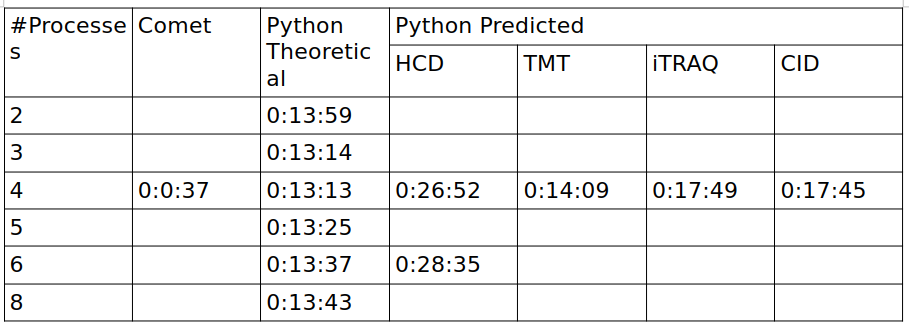
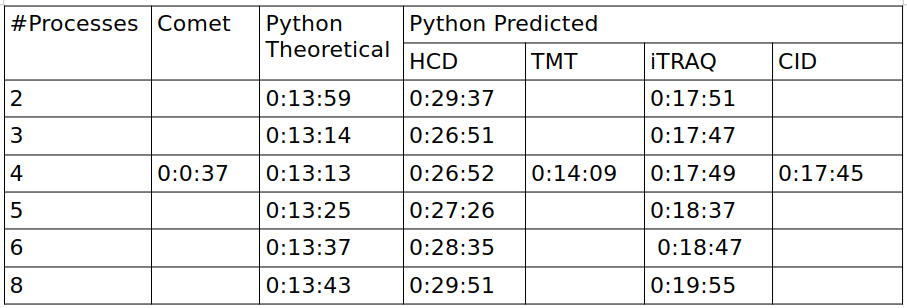
push

Changed region(s): [[0.0, 0.0, 1.0, 0.9935], [0.0, 0.1461, 0.0309, 0.1753]]

diff --git a/main.tex b/main.tex
@@ -123,7 +123,11 @@ After the binning stage, the binned experimental sample spectrum is further proc
 For the Xcorr, the similarity at zero offset is first determined, after that the binned arrays are shifted by $\pm$75 dalton and the correlation is determined at each offset. The background similarity is defined by computing the mean of all correlation values without the one at zero offset. The xcorr is then similarity at 0 offset minus background similarity \cite{xcorr-function}.
 
 \subsection{Peptide intensity prediction}
-Peptide prediction algorithms are able to predict \(MS^2\) peaks from given peptide sequences with the help of various machine learning models trained on large amounts of \(MS^2\) data. MS2PIP\cite{ms2pip} (short for \(MS^2\) peak instensity prediction) is a command line peptide intensity prediction tool which also exposes a Python API. MS2PIP has multiple built in prediction models which differ in instruments, fragmentation method, modifications and labeling techniques, the supported models are HCD, HCDch2, CID, CIDch2, iTRAQ, iTRAQphospho, TMT and TTOF5600. The tool is able to predict the m/z values given a peptide (with static and variable modifications) and its precursor charge, and also its intensities. This will be in the following referred to as the "predicted spectrum" of a peptide.
+Peptide prediction algorithms are able to predict \(MS^2\) peaks from given peptide sequences with the help of various machine learning models trained on large amounts of \(MS^2\) PSM (peptide spectrum match) data. A PSM is a score which is close to zero when a peptide has been falsely identified and is likely to be a false match and occured by chance. A high PSM score, meaning a score close to 1, implies that a match is unlikely to have occurred by chance and that it is likely that a match is correct. 
+
+MS2PIP\cite{ms2pip, ms2pip-server} (short for \(MS^2\) peak instensity prediction) is a command line peptide intensity prediction tool which also exposes a Python API. MS2PIP has multiple built-in prediction models which differ in instruments, fragmentation method, modifications, and labeling techniques; the supported models are HCD, HCDch2, CID, CIDch2, iTRAQ, iTRAQphospho, TMT, and TTOF5600. Each model was trained on different training-test datasets and evaluation datasets including proteins from human, rat, mouse, plant and bacteria \cite{ms2pip}. The models were trained with regression learning with the use of a feature vector, for this the training dataset was divided by the charge states 2 and 3, since these are the most common occuring ion charges, and by the peptide length between 8 and 28 amino acids. Features like n-terminal labeling, peptide m/z value, fragment ion m/z value, number of accurance of an amino acid in the, peptide e.t.c. have been taken into account for the feature vector. Each PSM is then assigned a set of features in the feature vector and labeled with a target. Regression models for multiple types of fragment ions, including b and y ions which are the fragment ions focused on in this thesis, have been constructed.
+
+The tool is able to predict the m/z values given a peptide (with static and variable modifications) and its precursor charge, and also its intensities. This will be in the following referred to as the "predicted spectrum" of a peptide.
 
 \section{Motivation \& Goals}
 The goal of this work is to combine the comet cross-correlation scoring algorithm
@@ -149,9 +153,9 @@ Acessing these files with Python was done with the help of the pyteomics python 
 \subsubsection{Creating a peptide index list}
 For efficient identification of peptides it is first necessary to create a compact list that contains all masses, and peptides that have this mass, from the fasta database file. In the following this list will be referred to as the "peptide index". While iterating through the fasta database, the retrieved sequences are \textit{in silico} digested, meaning that the function of the human digestive system is simulated. In the human body peptides that are too large for the small intestine are cleaved by the enzyme trypsin, and are called "tryptic peptides". This digestion is realized by cutting the sequences after the amino acids Arginie (R) and Lysine (K), except for those sites where R or K are followed by Proline (P). The general regular expression for this is "(?$<$=[KR])(?!P)". For this matter, the pyteomics library function \textit{parser.cleave} was used, for each peptide that was cleaved off, the resulting peptide length is restricted between 6 and 50 amino acids, and a maximum of 2 missed cleavages is allowed, meaning that at most two spots that are matched by the regular expression are "overlooked". 
 
-The resulting peptides are all in a unmodified state, so for the program to recognize possible modified peptides in a scan from the mzml file, it is necessary that for every peptide that has been cleaved from a sequence from the fasta database file, all its isoforms are generated. Those peptides that contain an "X", i.e. an unidentified amino acid, are ignored. The generating of isoforms is achieved by the pyteomics library function \textit{isoforms} from the parser module, which takes in one peptide cleaved from the database at a time, applies fixed modifications i.e. modifications that are always applied, and variable modfications, for which all possible combinations are generated. Examplary like in the reference comet run, the static modifications Carbamidomethylation of Cysteine (C) as well as the variable modification Oxidation of Methionine (M) have been taken into account. The amount of maximum modifications is set to three, meaning that in one peptide at most three amino acids can be affected by a variable modification.
+The resulting peptides are all in an unmodified state, so for the program to recognize possible modified peptides in a scan from the mzml file, it is necessary that for every peptide that has been cleaved from a sequence from the fasta database file, all its isoforms are generated. Those peptides that contain an "X", i.e. an unidentified amino acid, are ignored. The generating of isoforms is achieved by the pyteomics library function \textit{isoforms} from the parser module, which takes in one peptide cleaved from the database at a time, applies fixed modifications i.e. modifications that are always applied, and variable modfications, for which all possible combinations are generated. Examplary like in the reference comet run, the static modifications Carbamidomethylation of Cysteine (C) as well as the variable modification Oxidation of Methionine (M) have been taken into account. The amount of maximum modifications is set to three, meaning that in one peptide at most three amino acids can be affected by a variable modification.
 
-For every generated isoform, the mass is calculated. This mass is added to a dictionary as the key if it does not exist yet, and the according peptide as the value. Since multiple peptides can have the same mass, it is possible that for a mass/key value are multiple peptides stored. Next, the dictionary is converted to list which is sorted by the mass in ascending order [\cref{fig:peptindex}]. The reason for this is that a python dictionary is unordered and "unindexable", and since binary search will be performed in the following on the peptide index, this is an issue.
+For every generated isoform, the mass is calculated. This mass is added to a dictionary as the key if it does not exist yet, and the according peptide as the value. Since multiple peptides can have the same mass, it is possible that for a mass/key value are multiple peptides stored. Next, the dictionary is converted to list which is sorted by the mass in ascending order [\cref{fig:peptindex}]. The reason for this is that a python dictionary is unordered and "unindexable", and since binary search will be performed in the following on the peptide index, it is necessary to convert the dictionary into an indexable list.
  
 \subsubsection{Multiprocessing}
 After generating the peptide index list, a pool of user specified amount of processes is created in order to increase performance and use as many computer resources as possible. A \textit{manager} from the python multiprocessing library is used to share the previously generated peptide index between the pool processes. 
@@ -159,12 +163,12 @@ After generating the peptide index list, a pool of user specified amount of proc
 The program starts iterating over the spectra inside the mzml sample file, and does so until all spectra are read. It loads user defined amount of spectra into a buffer, which is accessed by the process pool. A process loads one spectrum scan from the buffer and proceeds with the identification, meaning that the peptide index is searched for a possible close match for the spectrum.
 
 \subsubsection{Filtering of candidate peptides}
-Each single process calls the identification function, which does the following:
-It iterates over the tree structure of the mzml file, and it is first checked whether the MS level is 2. If this is the case, the program iterates over all possible precursors and selected ions, where it first calculates the mass in dalton of the selected ion from the retrieved mass to charge value. 
+Each single process calls the \textit{identification} function, which does the following:
+It iterates over the tree structure of a scan from the mzml file, and it is first checked whether the MS level is 2, i.e an \(MS^2\) scan, since the file contains scans of various MS levels. If this is the case, the program iterates over all possible precursors and selected ions, where it first calculates the mass in dalton of the selected ion from the retrieved mass to charge and charge values. This is done by the calculation (mz * charge) - (hydrogen\_mass * charge).
 
-The program proceeds with a rough filtering of peptides that can come into question for the given scan. This is done by a lookup into the peptide index where it is searched for peptides that have a mass close to the mass of the selected precursor ion. The tolerance for a canditate peptide is 20 parts per million (ppm), that means between a mass of $\pm$ (spectrum mass * 0.00002).
+The program proceeds with a rough filtering of peptides that can come into question for the given scan. This is done by a lookup into the peptide index where it is searched for peptides that have a mass close to the mass of the selected precursor ion. The tolerance for a canditate peptide is 20 parts per million (ppm), that means between a mass of $\pm$ (spectrum mass * 0.00002). The lower and upper tolerance bounds are calculated by the \textit{tolerance\_bounds} function. 
 
-The lower and upper tolerance bounds are first calculated. The peptide index is a list meaning that it is indexable, and the masses are sorted in ascending order, that means that it is possible to efficiently get the upper and lower indices of the peptide index entries by performing binary searching on the list. A binary search function is searching for the lower index of the peptide list first, and returns the first index of the list where the mass is $\ge$ the calculated lower bound. The upper index is searched the same way. After getting the upper and lower indices, the process gets a slice from the peptide index including all peptides that are possible candidates for scoring. E.g if the lower bound for the mass is 1033.6777 and the upper bound is 2190.5454, the slice would be between the second line and the second last line in \cref{fig:peptindex}.
+The peptide index is a list meaning that it is indexable, and the masses are sorted in ascending order, that means that it is possible to efficiently get the upper and lower indices of the peptide index entries by performing binary searching on the list. A binary search function is searching for the lower index of the peptide list first, and returns the first index of the list where the mass is $\ge$ the calculated lower bound. The upper index is searched the same way. After getting the upper and lower indices, the process gets a slice from the peptide index including all peptides that are possible candidates for scoring. E.g if the lower bound for the mass is 1033.6777 and the upper bound is 2190.5454, the slice would be between the second line and the second last line in \cref{fig:peptindex}.
 \begin{wrapfigure}{r}{0.5\textwidth}
 \includegraphics[width=\linewidth]{figs/peptindex.png} 
 \caption{Peptide index list generated from the fasta database file}
@@ -172,24 +176,24 @@ The lower and upper tolerance bounds are first calculated. The peptide index is 
 \end{wrapfigure}
 
 \subsubsection{Spectrum binning}
-The mass-to-charge values and its corresponding intensities are retrieved as two separate numpy arrays from the mzml file and are sorted in a way that the m/z values are in ascending order, and every m/z value in the m/z array has its intensity stored in the intensity array on the exact same index.
+The mass-to-charge values and its corresponding intensities are retrieved as two separate numpy arrays from the mzml file and are sorted in parallel in a way that the m/z values are in ascending order, and every m/z value in the m/z array has its intensity stored in the intensity array on the exact same index.
 
 The process continues with what in the original comet implementation is referred to as "binning". First, the values in the intensity array are normalised between 0 and 50. Depending on the bin size, the bin index of a m/z value is calculated by dividing the m/z by the bin width. A numpy bin array is created, its size depending on the biggest m/z value in the m/z array, and since an m/z array from the mzml file can have values up to 2000, the bin array can have a size of 100.000. The bin array is filled with the intensites from the intensity array on the calculated index. In case there are 2 intensities on the same index, like in the comet implemenation, only the highest intensity is stored. Like in comet, the binned experimental array is processed by dividing it into 10 equal sections and normalisation is performed within them.
 
-The program now proceeds with generating fragment m/z values of the peptides from the previously retrieved array slice with candidate peptides. This is done by a seperate function for every peptide in the slice which takes in the peptide as a string and the maximum charge of the selected precursor ion - 1 as the parameters. Like in the initial reference comet run, the maxcharge is limited to 3. The fragmentation function returns a list with m/z values, which is the "theoretical spectrum" of the candidate peptide, and binned the same way as the spectrum retrieved from the sample mzml file, except that this fragmentation m/z list has no corresponding list containing intensities. In this case the bin array index is calculated the same way, but on the index position the bin array is filled with a 50, and neighboring bins are filled with a value of 25. 
+The program now proceeds with generating theoretical spectra by computing fragment m/z values of the peptides from the previously retrieved array slice with candidate peptides. This is done by a seperate function for every peptide in the slice which takes in the peptide as a string and the maximum charge of the selected precursor ion - 1 as the parameters. Like in the initial reference comet run, the maxcharge is limited to 3. The fragmentation function returns a list with m/z values, which is the theoretical spectrum of the candidate peptide, and binned the same way as the spectrum retrieved from the sample mzml file, except that this fragmentation m/z list has no corresponding list containing intensities. In this case the bin array index is calculated the same way, but on the index position the bin array is filled with a 50, and neighboring bins are filled with a value of 25. 
 
 \subsubsection{Peak intensity prediction with MS2PIP}
-In case the user of the tool decides to run the program with predicted spectra instead of the theoretical spectra, the program runs the predict\_spectrum function on the peptides. The Pyteomics library and the MS2PIP library have different ways of labeling/marking modifications of a peptide, so the peptide retrieved from the peptide index has to be parsed by a Pyteomics parser which takes in a Pyteomics formatted peptide string and returns the peptide as a list of labels, this list is then iterated over and a MS2PIP style-formatted modification string is generated. The plain isoform of the peptide and its modification string as well as the specified prediction model which in the default case is HCD, are then fed into the MS2PIP \textit{predict} function, which returns an array of predicted m/z values and its corresponding predicted intensity array, i.e. the predicted spectrum of the peptide.
+In case the user of the tool decides to run the program with predicted spectra instead of the theoretical spectra, the program runs the \textit{predict\_spectrum} function on the peptides. The Pyteomics library and the MS2PIP library have different ways of labeling/marking modifications of a peptide, so the peptide retrieved from the peptide index has to be parsed by a Pyteomics parser which takes in a Pyteomics formatted peptide string and returns the peptide as a list of labels, this list is then iterated over and a MS2PIP style-formatted modification string is generated. The plain isoform of the peptide and its modification string as well as the specified prediction model which in the default case is HCD, are then fed into the MS2PIP \textit{predict} function, which returns an array of predicted m/z values and its corresponding predicted intensity array, i.e. the predicted spectrum of the peptide.
+
+\subsubsection{Xcorr scoring}
+After the sample spectrum and the theoretical spectrum have been binned, they have to be brought to the same length. This is achieved by filling up the binned theoretical spectrum with zeros in case it is smaller than the binned sample spectrum. If the binned sample array is smaller, it is simply cut to the right length. 
+
+The correlation is calculated by the \textit{correlate} function from the numpy library with the mode "valid". In the comet implementation the binned sample and binned theoretical spectrum are shifted by $\pm$75 dalton, which corresponds to a shift of 75/0.02 bins, where at each overlap the dot product is calculated. The resulting array has a size of 3750 + 3750 + 1 = 7501, a shift of 3750 bins in each direction and the dot product at zero offset. The correlation at zero offset corresponds to the entry at index 3750 in the resulting array, which is exactly the middle entry. To calculate the background similarity, the entry at the middle index is removed and the mean over all remaining entries in the correlation array is calculated. The Xcorr score is computed by subtracting the background similarity from the similarity at zero offset, then divided by 10.000.[\cref{fig:corr}].
 \begin{wrapfigure}{r}{0.5\textwidth}
 \includegraphics[width=\linewidth]{figs/crosscorr.jpg} 
 \caption{Preprocessing the binned arrays before correlation}
 \label{fig:corr}
 \end{wrapfigure}
-\subsubsection{Xcorr scoring}
-After the sample spectrum and the theoretical spectrum have been binned, they have to be brought to the same length. This is achieved by filling up the binned theoretical spectrum with zeros in case it is smaller than the binned sample spectrum. If the binned sample array is smaller, it is simply cut to the right length. 
-
-The correlation is calculated by the \textit{correlate} function from the numpy library with the mode "valid". In the comet implementation the binned sample and binned theoretical spectrum are shifted by $\pm$75 dalton, which corresponds to a shift of 75/0.02 bins, where at each overlap the dot product is calculated. The resulting array has a size of 3750 + 3750 + 1 = 7501, a shift of 3750 bins in each direction and the dot product at zero offset. The correlation at zero offset corresponds to the entry at index 3750 in the resulting array, which is exactly the middle entry. To calculate the background similarity, the entry at the middle index is removed and the mean over all remaining entries in the correlation array is calculated. The Xcorr score is computed by subtracting the background similarity from the similarity at zero offset, then divided by 10.000.[\cref{fig:corr}].
-
 \subsubsection{Output}
 The process returns and adds all identified results for a peptide from the sample mzml file to a result list. When the buffer is fully consumed, all results are printed to a tsv file in tab separated format. One result consists of the scan number which is unique for every entry inside of the sample mzml file, the charge of the precuror ion, the mass of the experimental neutral precursor ion from the mzml file, the calculated neutral mass of the theoretical peptide that has been selected for matching, the Xcorr score, the amount of matched ions, meaning the amount of sites where on zero shift there are non-zero values in both binned arrays, the amount of total ions of the theoretical spectrum and the plain unmodified peptide.
 
@@ -314,7 +318,7 @@ At this point it needs to be noted that Python was not selected as the programmi
 
 The fast scoring algorithm of comet has not been implemented in this python version, which is one of the reasons for the slower performance.
 
-To detect the optimal amount of processes to use for a computation, the program was run in both theoretical and prediction modes at different amounts of processes, and the execution times were noted. For the prediction mode, multiple MS2PIP models were tested. The execution times are shown in \cref{fig:speed-comparison}. An issue with MS2PIP is that the funtions used from this module seem to starting processes by their own, and this multiprocessing cant be controlled by the user. Thich results in a very high amount of processes in total and leads to a "process jam". The numpy library uses multithreading by default too. This means that running the Python program with too many pool processes will slow it down, which is also demonstrated in \cref{fig:speed-comparison}. The optimal amount of processes to use for the Python program is identified as 4 for the theoretical spectrum matching mode, whose execution time lies at 0:13:13. Using more or less processes than 4 will not be beneficial for the execution speed. For comparison, comet was executed with 4 processes, which terminates after 37 seconds.
+To detect the optimal amount of processes to use for a computation, the program was run in both theoretical and prediction modes at different amounts of processes, and the execution times were noted. For the prediction mode, multiple MS2PIP models were tested. The execution times are shown in \cref{fig:speed-comparison}. An issue with MS2PIP is that the funtions used from this module seem to starting processes by their own, and this multiprocessing cant be controlled by the user. Thich results in a very high amount of processes in total and leads to a "process jam". The numpy library uses multithreading by default too. This means that running the Python program with too many pool processes will slow it down, which is also demonstrated in \cref{fig:speed-comparison}. The optimal amount of processes to use for the Python program is identified as 4 for the theoretical spectrum matching mode, whose execution time lies at 0:13:13. For the four tested prediction models the optimal amount of processes is identified as 3-4, examplary, HCD and iTRAQ were run at different amounts of processes for this. Using more or less processes than 4 will not be beneficial for the execution speed. The speed of all prediction models, python thoretical spectrum matching and comet was compared at 4 processes.
 
 \begin{figure}[ht]
 \centering
